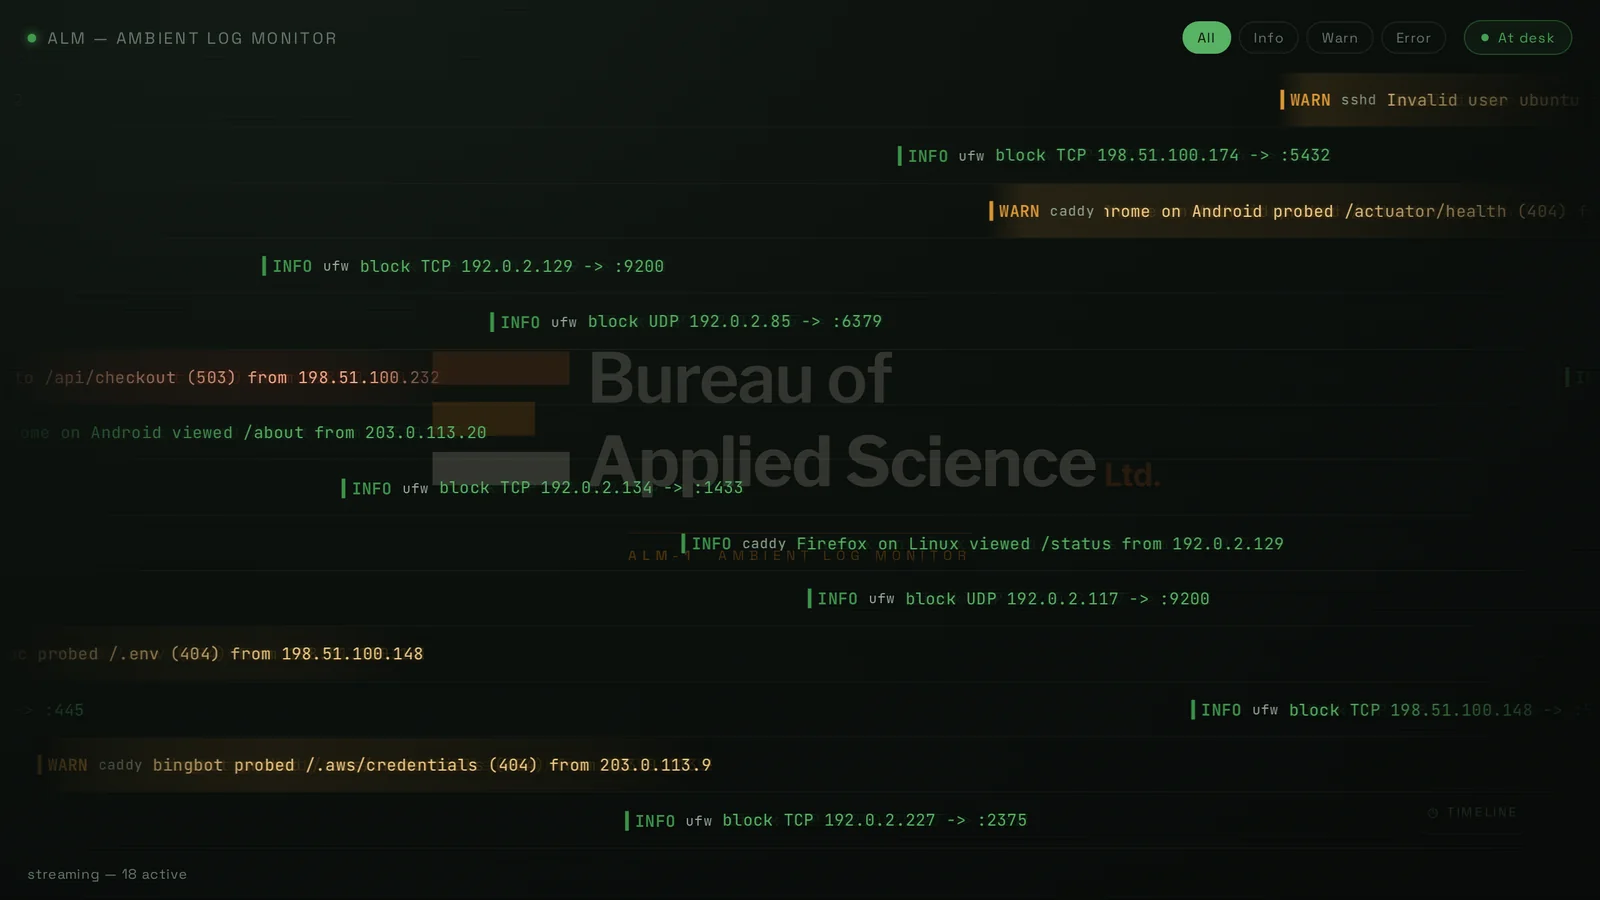
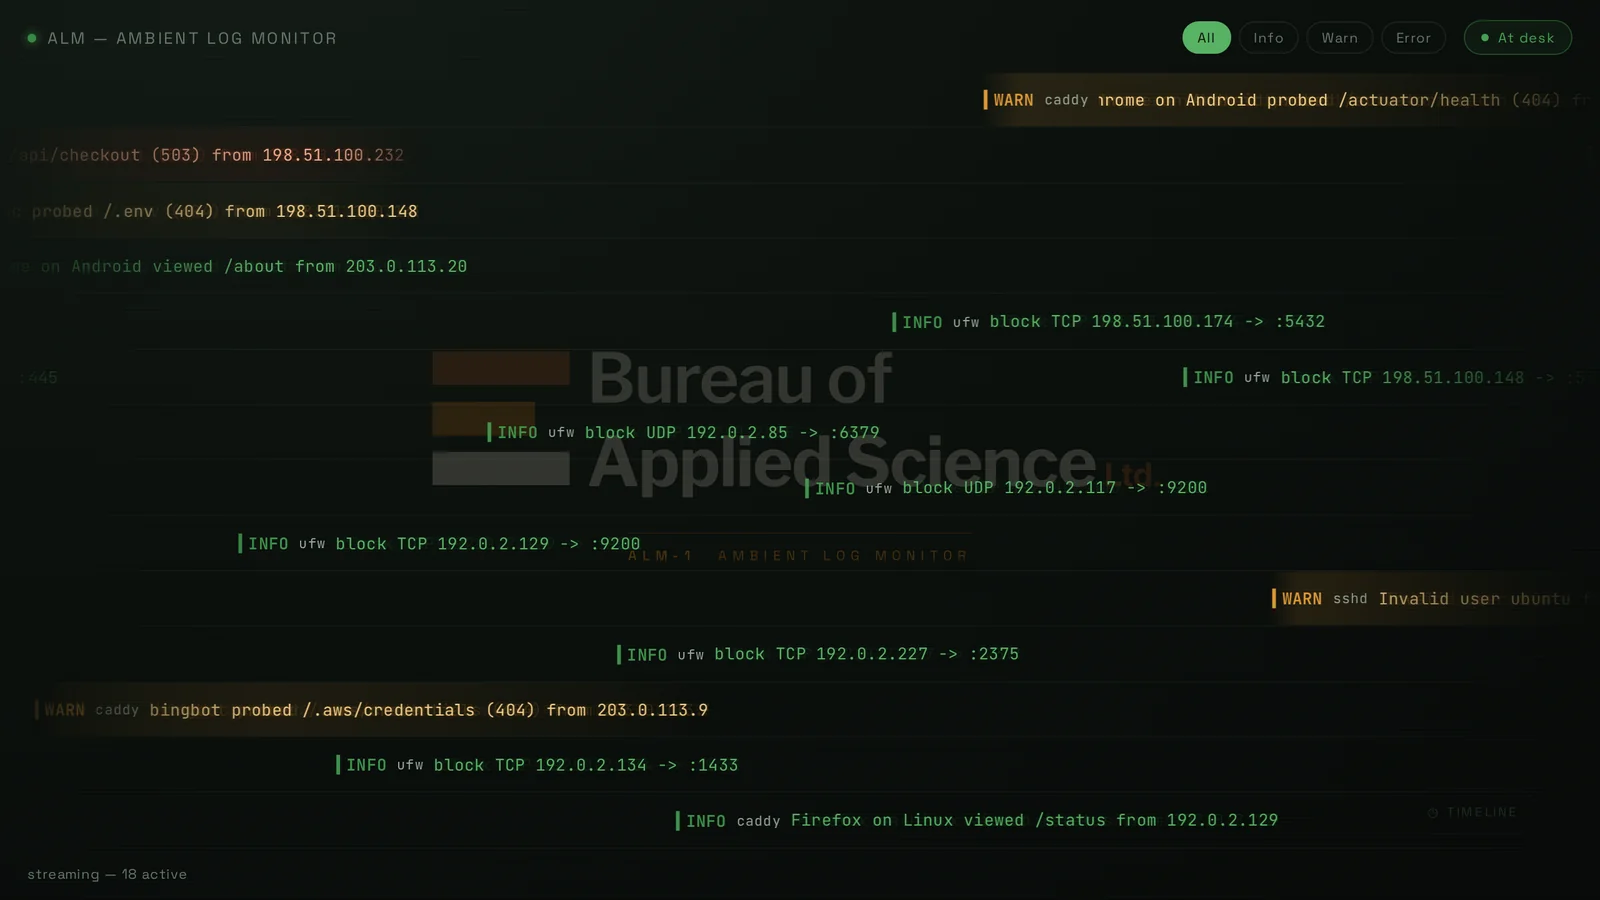
README hero: 4.5s capture at a higher frame rate (30 fps cap, about 15 delivered)

diff --git a/tools/screenshots.py b/tools/screenshots.py
@@ -173,10 +173,10 @@ async def main_async(out: Path, only: set[str]) -> None:
                 await grab(page, out / "live.webp", width=1600, label="live view")
                 rec = Recorder(page, ctx)
                 await rec.start()
-                await asyncio.sleep(7)
+                await asyncio.sleep(4.5)
                 frames = await rec.stop()
                 sanitize_text(await page_text(page), "hero gif")
-                save_anim(frames, out / "hero.webp", width=900, max_fps=10)
+                save_anim(frames, out / "hero.webp", width=900, max_fps=30, quality=70, loop_pause=0.8)
 
             if want("detail"):
                 print("detail")
